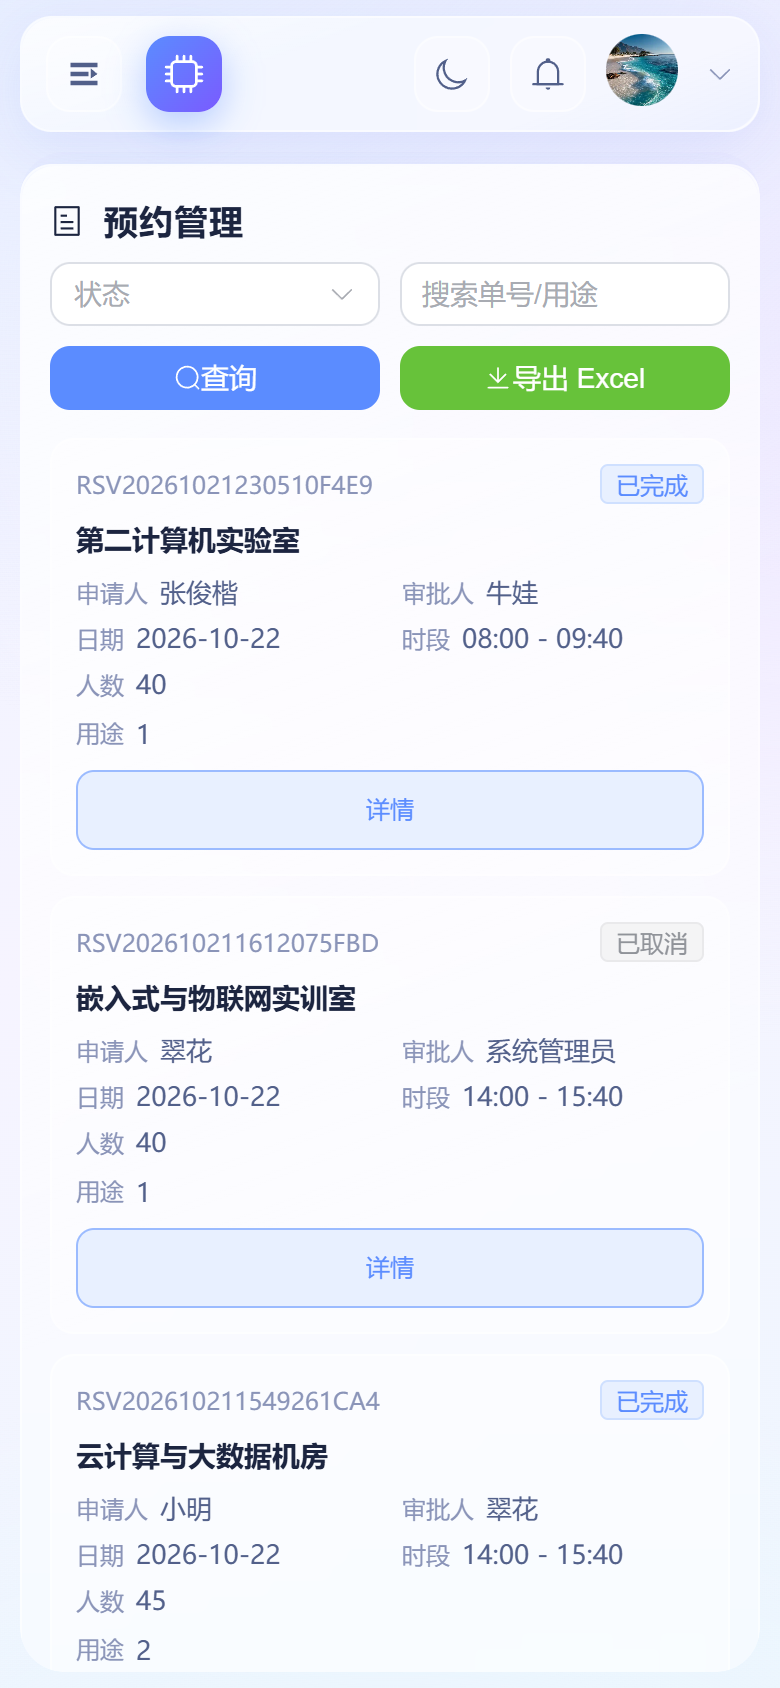
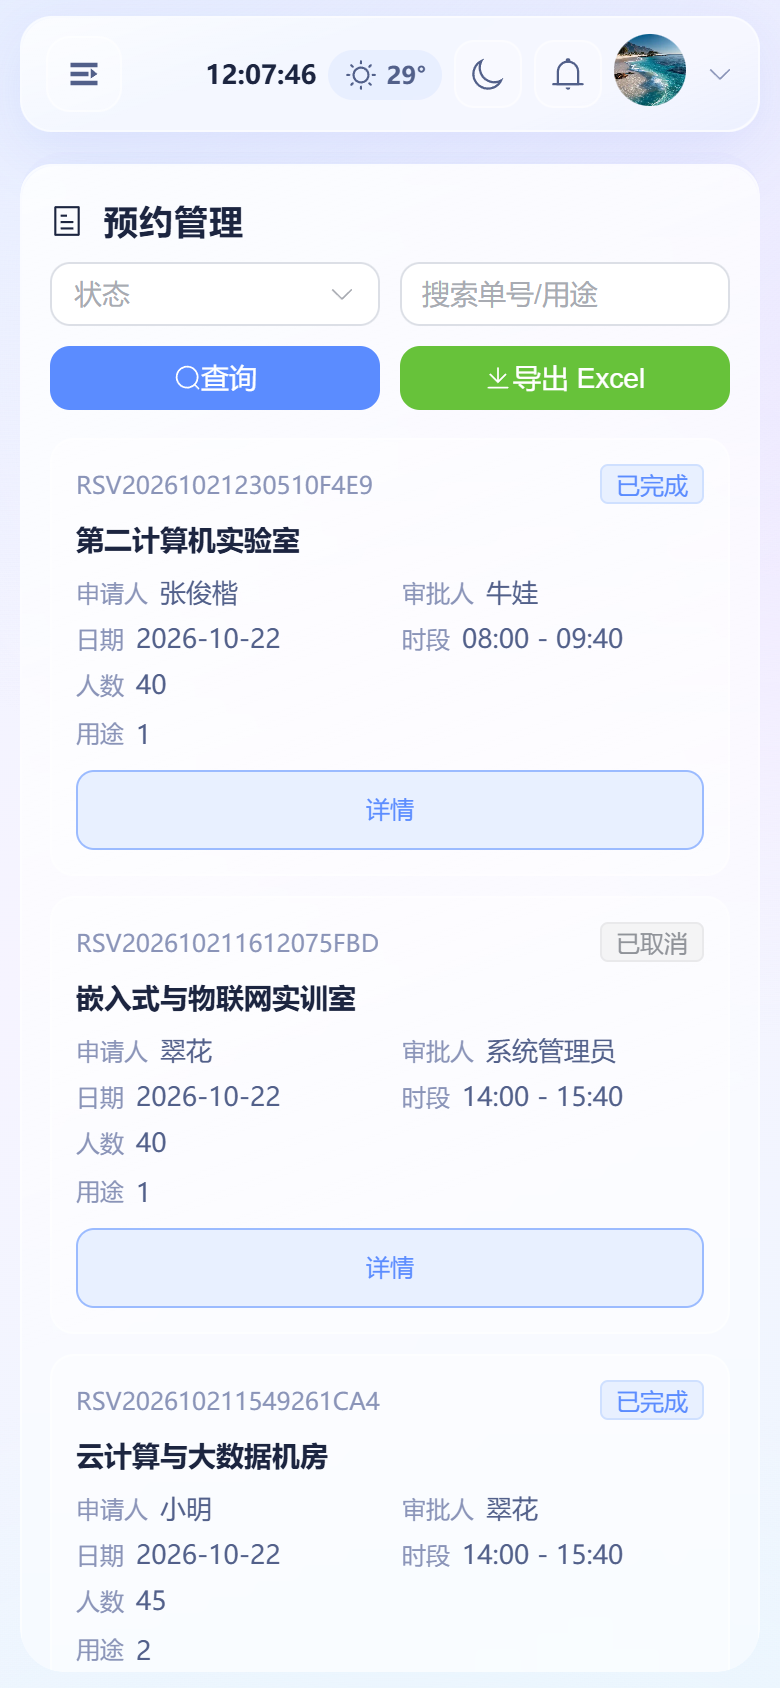
fix(layout): 移动端顶栏恢复显示时间与天气并压缩为紧凑形态

diff --git a/frontend/src/layout/index.vue b/frontend/src/layout/index.vue
@@ -17,7 +17,7 @@
       </div>
 
       <div class="topbar-right">
-        <!-- 当前日期时间 -->
+        <!-- 当前日期时间（窄屏只留时间，日期在页面内已有展示） -->
         <div class="clock" :title="clockDate + ' ' + clockTime">
           <span class="clock-date">{{ clockDate }}</span>
           <span class="clock-time">{{ clockTime }}</span>
@@ -678,13 +678,61 @@ onBeforeUnmount(() => {
     display: flex;
   }
 
-  // 窄屏顶栏空间紧张，隐藏日期时间与天气
-  .clock {
+  // 窄屏顶栏空间紧张：日期时间与天气改为紧凑形态而不是直接隐藏
+  // 左上角只保留抽屉开关，品牌图标让位给时钟与天气
+  .brand {
+    flex-shrink: 0;
+  }
+
+  .brand .brand-logo {
     display: none;
   }
 
+  .clock {
+    display: flex;
+    flex-direction: row;
+    align-items: baseline;
+    gap: 6px;
+    margin-right: 0;
+
+    // 窄屏只保留时间，日期在页面内已有展示
+    .clock-date {
+      display: none;
+    }
+
+    .clock-time {
+      font-size: 13px;
+      letter-spacing: 0;
+    }
+  }
+
   .weather {
-    display: none;
+    display: flex;
+    padding: 4px 8px;
+    gap: 4px;
+
+    // 城市名在窄屏舍弃，靠 title 无法查看，保留温度更实用
+    .weather-city {
+      display: none;
+    }
+
+    .weather-temp {
+      font-size: 12px;
+    }
+  }
+
+  .topbar-right {
+    gap: 6px;
+  }
+
+  .icon-btn {
+    width: 34px;
+    height: 34px;
+    border-radius: 10px;
+  }
+
+  .user-block {
+    gap: 6px;
   }
 
   .sidebar {
